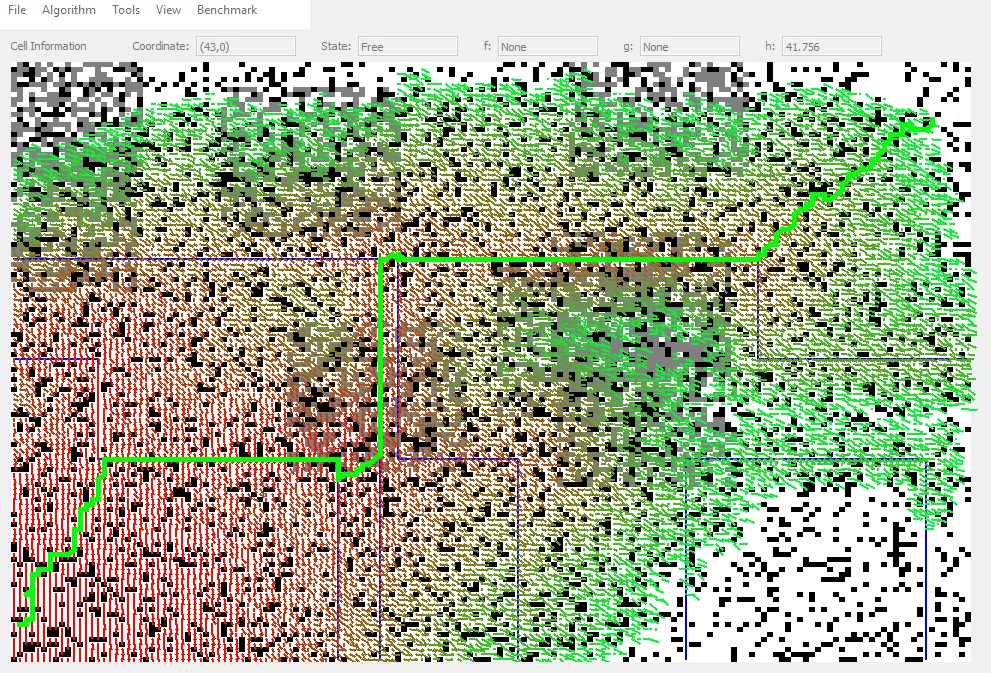
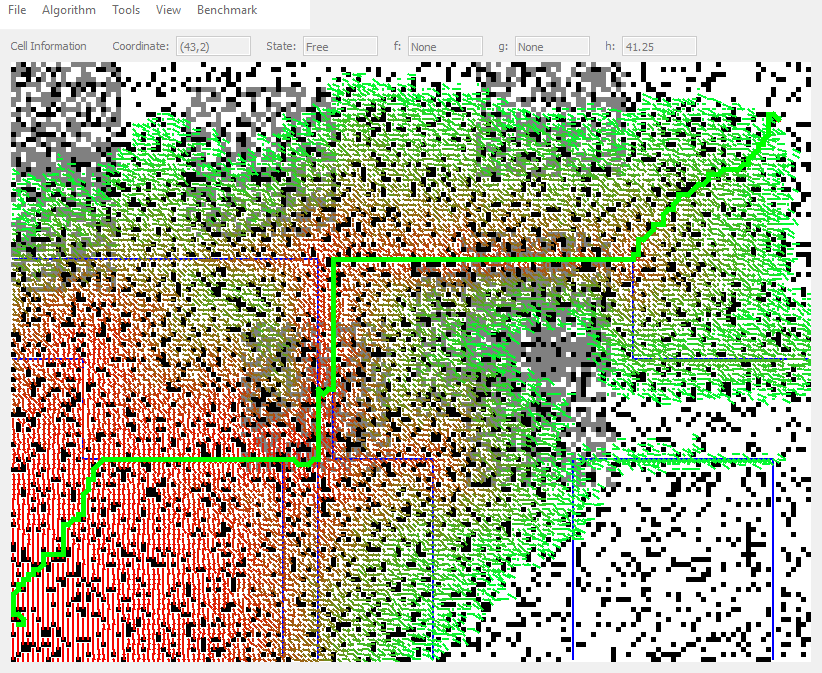
changed solution swarm calculation for Sequential A*

diff --git a/main.py b/main.py
@@ -767,53 +767,58 @@ class main_window(QWidget):
 
 				if self.frontier_list[i].Minkey() <= ( w2 * self.frontier_list[0].Minkey() ):
 					if self.cost_set_list[i][goal_index] <= self.frontier_list[i].Minkey():
-
 						if self.cost_set_list[i][goal_index] < inf:
-
 							done = True #exit out of the loop
 							result_code = i
 							break
 					else:
-
 						s = self.frontier_list[i].top()
-
 						last_cell = s
 						last_heuristic = i
 						#if cell_in_list(s,self.explored)==False: self.explored.append(s)
-
 						self.sequential_astar_expand(i, w1, s)
 						self.explored_set_list[i].append(s)
 						self.closed_set_lists[i].append(s)
 				else:
 					if self.cost_set_list[0][goal_index] <= self.frontier_list[0].Minkey():
 						if self.cost_set_list[0][goal_index] < sys.maxint:
-
 							done = True
 							result_code = 0
 							break
 					else:
 
 						s = self.frontier_list[0].top()
-
 						last_cell = s
 						last_heuristic = 0
 						#if cell_in_list(s,self.explored)==False: self.explored.append(s)
-
 						self.sequential_astar_expand(0, w1, s)
 						self.explored_set_list[0].append(s)
 						self.closed_set_lists[0].append(s)
 
+		# convert the dictionary cost_set_list into a list called self.last_cost_list
 		self.last_cost_list = ["None"] * len(self.cells)
 		for index,cost in self.cost_set_list[result_code].items():
 			self.last_cost_list[int(index)] = float(cost)
 
-		#render solution
-		#self.grid.solution_path = self.explored
+		# combine all queues to create the overall solution swarm
 		total_solution_swarm = []
+		longest_queue = -1
+		for queue in self.explored_set_list:
+			if len(queue)>=longest_queue:
+				longest_queue = len(queue)
+		for i in range(longest_queue):
+			for queue in self.explored_set_list:
+				if len(queue)>i:
+					if queue[i] not in total_solution_swarm:
+						total_solution_swarm.append(queue[i])
+
+		'''
 		for i in range(len(self.explored_set_list)):
 			for item in self.explored_set_list[i]:
 				if item not in total_solution_swarm:
 					total_solution_swarm.append(item)
+		'''
+
 		self.grid.solution_path = total_solution_swarm
 		#self.grid.solution_path = self.explored_set_list[result_code]
 		final_solution_cost = self.cost_set_list[result_code][goal_index]
@@ -1436,7 +1441,15 @@ class main_window(QWidget):
 		self.setWindowTitle("AI Project 1 - (Width:"+str(self.size().width())+", Height:"+str(self.size().height())+") - BENCHMARKING")
 
 		data_dir = "benchmarks/data/"
-		filename = data_dir+"integrated_a_star-[w1="+str(w1).replace(".","_")+"]-[w2="+str(w2).replace(".","_")+"].txt"
+		filename = data_dir+"integrated_a_star-[w1="+str(w1).replace(".","_")+"]-[w2="+str(w2).replace(".","_")+"]"
+
+		# if any of these are False then append information to filename
+		if TURN_OFF_DIAGONAL_MULTIPLIER==False:
+			filename += "-[diagonal_multiplier_enabled]"
+		if TURN_OFF_HIGHWAY_HEURISTIC==False:
+			filename += "-[highway_heuristic_enabled]"
+		filename += ".txt"
+
 		f = open(filename,"w")
 		print(">Writing results to "+filename+"...")
 
